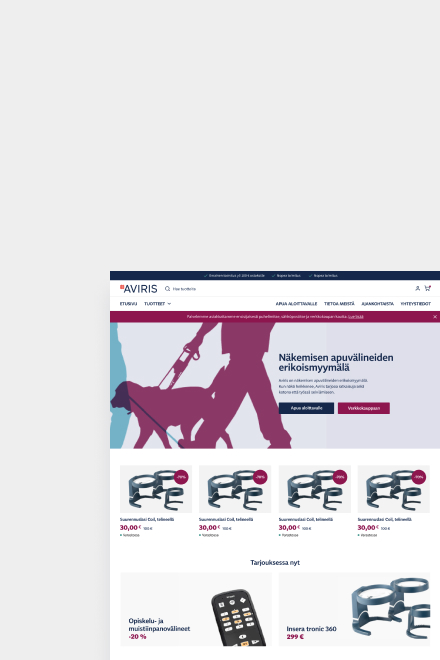
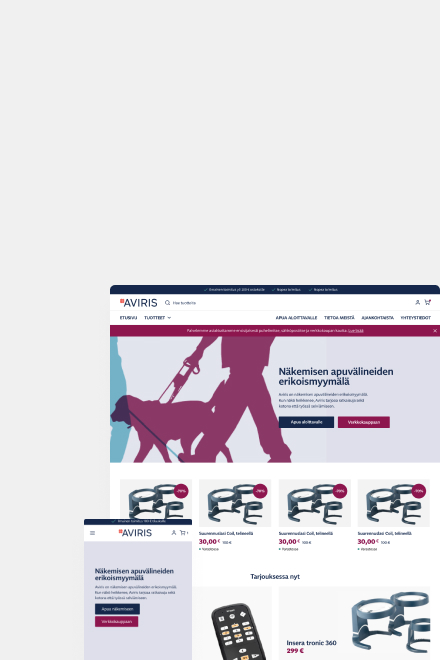
Add cases and images

Changed region(s): [[0.1773, 0.3939, 1.0, 1.0], [0.7977, 0.8485, 1.0, 1.0], [0.65, 0.9394, 0.7682, 1.0]]

diff --git a/components/layout.module.css b/components/layout.module.css
@@ -21,9 +21,9 @@
 	flex-direction: column;
 	justify-content: center;
 	align-items: center;
-	min-height: 50rem;
+	min-height: 40rem;
 }
-@media (min-height: 80em) {
+@media (min-height: 100em) {
 	.headerHome {
 		height: 100vh;
 	}
@@ -51,7 +51,7 @@
 	font-size: 1.2rem;
 	margin: 8rem 0;
 }
-@media (min-width: 60em) {
+@media (min-width: 100em) {
 	.lead {
 		padding: 0;
 		margin: 8rem 2rem 2rem auto;
@@ -65,7 +65,7 @@
 	display: none;
 }
 
-@media (min-width: 60em) {
+@media (min-width: 124em) {
 	.update {
 		display: block;
 		position: fixed;
@@ -86,12 +86,12 @@
 .siteSubtitle {
 	width: 4rem;
 	position: absolute;
-	top: 2rem;
+	top: 2.2rem;
 	margin: 0;
-	font-size: 0.8rem;
+	font-size: 0.7rem;
 	text-transform: uppercase;
 }
-@media (min-width: 60em) {
+@media (min-width: 124em) {
 	.siteTitle,
 	.siteSubtitle {
 		width: auto;
@@ -100,12 +100,21 @@
 }
 .siteTitle {
 	z-index: 1;
-	text-align: right;
-	left: 2rem;
+	left: 1rem;
+}
+@media (min-width: 124em) {
+	.siteTitle {
+		left: 2rem;
+	}
 }
 
 .siteSubtitle {
-	right: 2rem;
+	right: 1rem;
+}
+@media (min-width: 124em) {
+	.siteSubtitle {
+		right: 2rem;
+	}
 }
 
 .siteLogo {

diff --git a/case/helsingin-kaupunki.md b/case/helsingin-kaupunki.md
@@ -1,5 +1,5 @@
 ---
-title: 'Improving health care chat services'
+title: 'Developing healthcare chat services'
 client: 'Helsingin Kaupunki'
 date: '2019'
 role: Service Design, UX/UI
@@ -7,4 +7,12 @@ tooling: 'User Research, Facilitating, Prototyping, User Testing, Figma'
 imgUrl: /images/feat-helsingin-kaupunki.jpg
 ---
 
-![Chat Prototype](../images/client-helsingin-kaupunki-1.jpg)
+![Research](../images/client-hki-1.jpg)
+![Ideation](../images/client-hki-2.jpg)
+![Chat Prototyp — Dashboard](../images/client-hki-4.jpg)
+![Chat Prototype — Conversation](../images/client-hki-6.jpg)
+![Chat Prototype — Conversation](../images/client-hki-7.jpg)
+![Chat Prototype — Dashboard After Conversation](../images/client-hki-5.jpg)
+![User testing](../images/client-hki-3.jpg)
+
+Development of healthcare chat services through service design. Project responsibilities include e.g. user research, workshop facilitation, prototyping and usability testing.

diff --git a/case/hoito-ohjeet.md b/case/hoito-ohjeet.md
@@ -4,7 +4,11 @@ client: 'Hoito-ohjeet.fi'
 date: '2018'
 role: Service Design, UX/UI
 tooling: 'Facilitation, Prototyping, Adobe CC'
-imgUrl: /images/feat-hoito-ohjeet.jpeg
+imgUrl: /images/feat-hoito-ohjeet.jpg
 ---
 
-![Helkama](../images/client-hoito-ohjeet-1.jpg)
+![Hoito-ohjee.fi — Facilitator](../images/client-ho-1.jpeg)
+![Hoito-ohjee.fi — Co-creation](../images/client-ho-3.jpeg)
+![Hoito-ohjee.fi — Prototype](../images/client-ho-4.png)
+![Hoito-ohjee.fi — Prototype](../images/client-ho-5.png)
+![Hoito-ohjee.fi — Prototype](../images/client-ho-6.png)

diff --git a/case/aviris.md b/case/aviris.md
@@ -1,10 +1,12 @@
 ---
 title: 'Accessible Ecommerce Experience'
 client: 'Aviris'
-date: '2021'
+date: '2020'
 role: UX/UI, Frontend
 tooling: 'Figma, Adobe CC, WordPress/WooCommerce, HTML, CSS/SASS, JavaScript, PHP, Docker, Webpack, Composer, Git, Accessibility testing'
 imgUrl: /images/feat-aviris.jpg
 ---
 
 ![Aviris](../images/client-aviris-1.jpg)
+
+Visual design of an ecommerce site according to a corporate style guide, prototyping, as well as the front-end development of an accessible service.

diff --git a/case/helkama.md b/case/helkama.md
@@ -8,3 +8,5 @@ imgUrl: /images/feat-helkama.jpg
 ---
 
 ![Helkama](../images/client-helkama.jpg)
+
+Visual design of web services according to a corporate style guide, prototyping and front-end development of the service.
